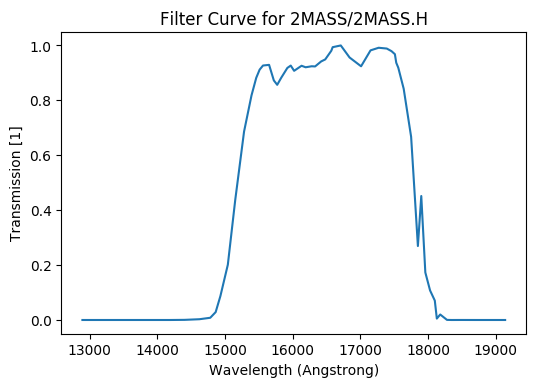
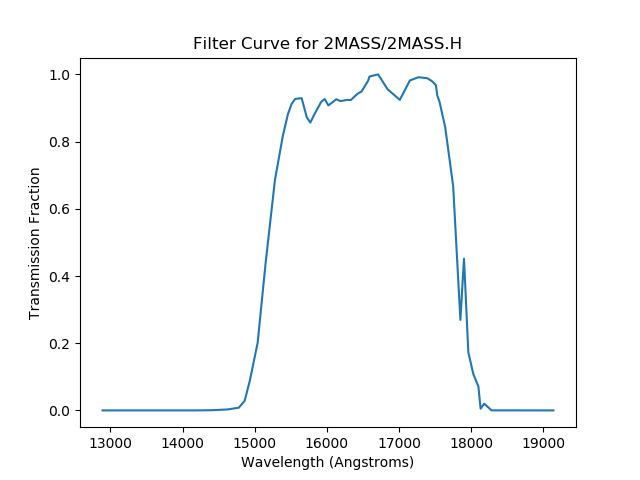
update figure, fix rst/sphinx refs

diff --git a/docs/svo_fps/svo_fps.rst b/docs/svo_fps/svo_fps.rst
@@ -18,7 +18,7 @@ Get index (master list) of all Filters
 --------------------------------------
 
 The filter index (all available filters with their properties) can be listed
-with `~astroquery.svo_fps.SvoFps.get_filter_index`:
+with `~astroquery.svo_fps.SvoFpsClass.get_filter_index`:
 
 .. code-block:: python
 
@@ -67,10 +67,10 @@ and ``wavelength_eff_max``, respectively).
 Get list of Filters under a specified Facilty and Instrument
 ------------------------------------------------------------
 
-Similarly, `~astroquery.svo_fps.SvoFps.get_filter_list` retrieves a list of all
+Similarly, `~astroquery.svo_fps.SvoFpsClass.get_filter_list` retrieves a list of all
 Filters for an arbitrary combination of Facility & Instrument (the Facility
 must be specified, but the Instrument is optional).  The data table returned
-is of the same form as that from `~astroquery.svo_fps.SvoFps.get_filter_index`:
+is of the same form as that from `~astroquery.svo_fps.SvoFpsClass.get_filter_index`:
 
 .. code-block:: python
 
@@ -117,10 +117,10 @@ Get transmission data for a specific Filter
 -------------------------------------------
 
 If you know the ``filterID`` of the filter (which you can determine with
-`~astroquery.svo_fps.SvoFps.get_filter_list` or
-`~astroquery.svo_fps.SvoFps.get_filter_index`), you can retrieve the
+`~astroquery.svo_fps.SvoFpsClass.get_filter_list` or
+`~astroquery.svo_fps.SvoFpsClass.get_filter_index`), you can retrieve the
 transmission curve data using
-`~astroquery.svo_fps.SvoFps.get_transmission_data`:
+`~astroquery.svo_fps.SvoFpsClass.get_transmission_data`:
 
 .. code-block:: python
 
@@ -159,16 +159,16 @@ These are the data needed to plot the transmission curve for filter:
 
     >>> import matplotlib.pyplot as plt
     >>> plt.plot(data['Wavelength'], data['Transmission'])
-    >>> plt.xlabel('Wavelength (Angstrom)')
-    >>> plt.ylabel('Transmission')
+    >>> plt.xlabel('Wavelength (Angstroms)')
+    >>> plt.ylabel('Transmission Fraction')
     >>> plt.title('Filter Curve for 2MASS/2MASS.H')
     >>> plt.show()
 
 .. figure:: images/filter_curve.png
    :scale: 100%
-   :alt: Filter Curve for 2MASS/2MASS.H
+   :alt: Transmission Curve for 2MASS/2MASS.H
 
-   The resulting plot from the example above
+   The 2MASS H-band transmission curve
 
 
 
